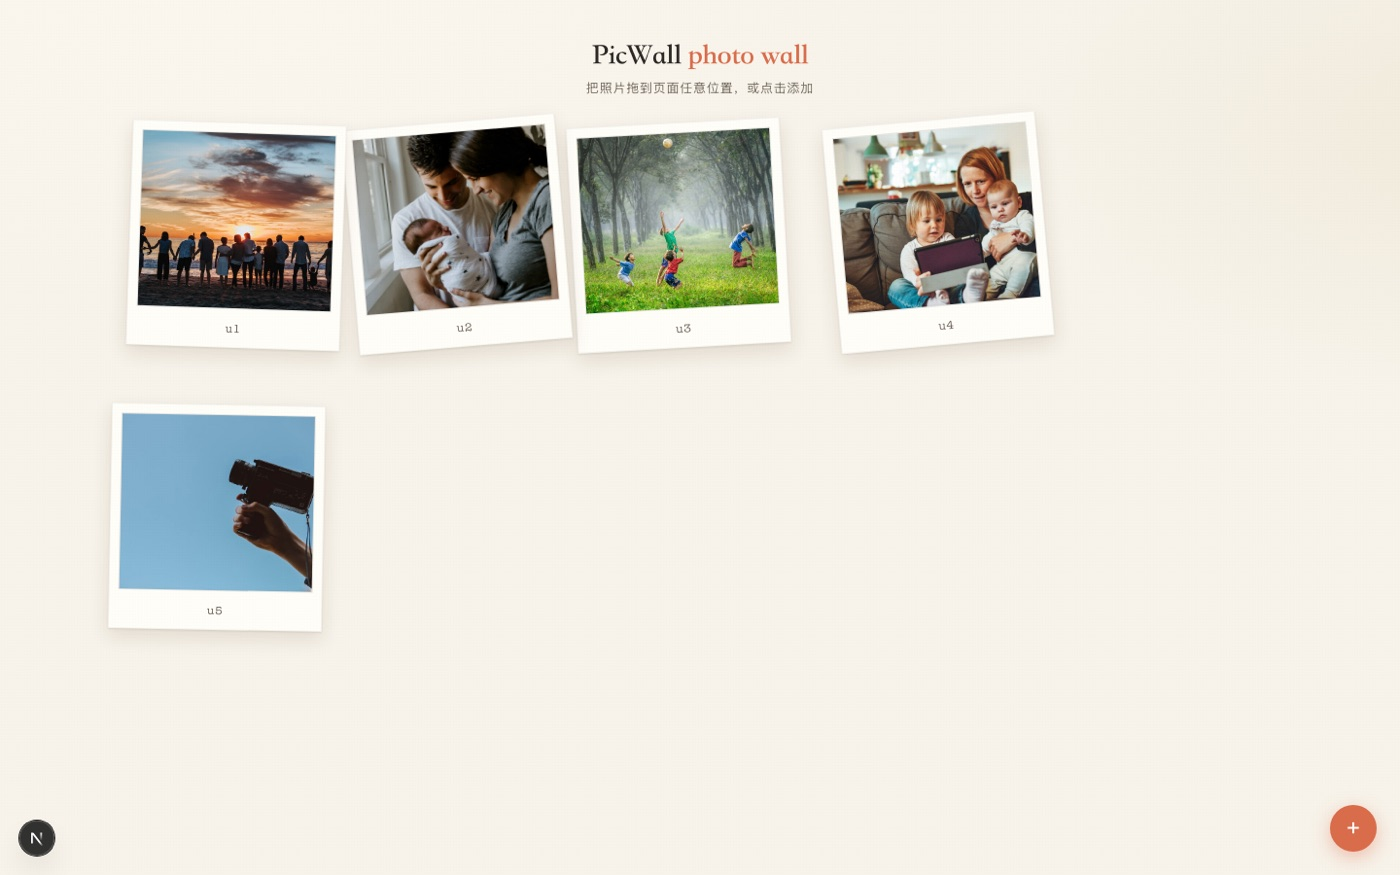
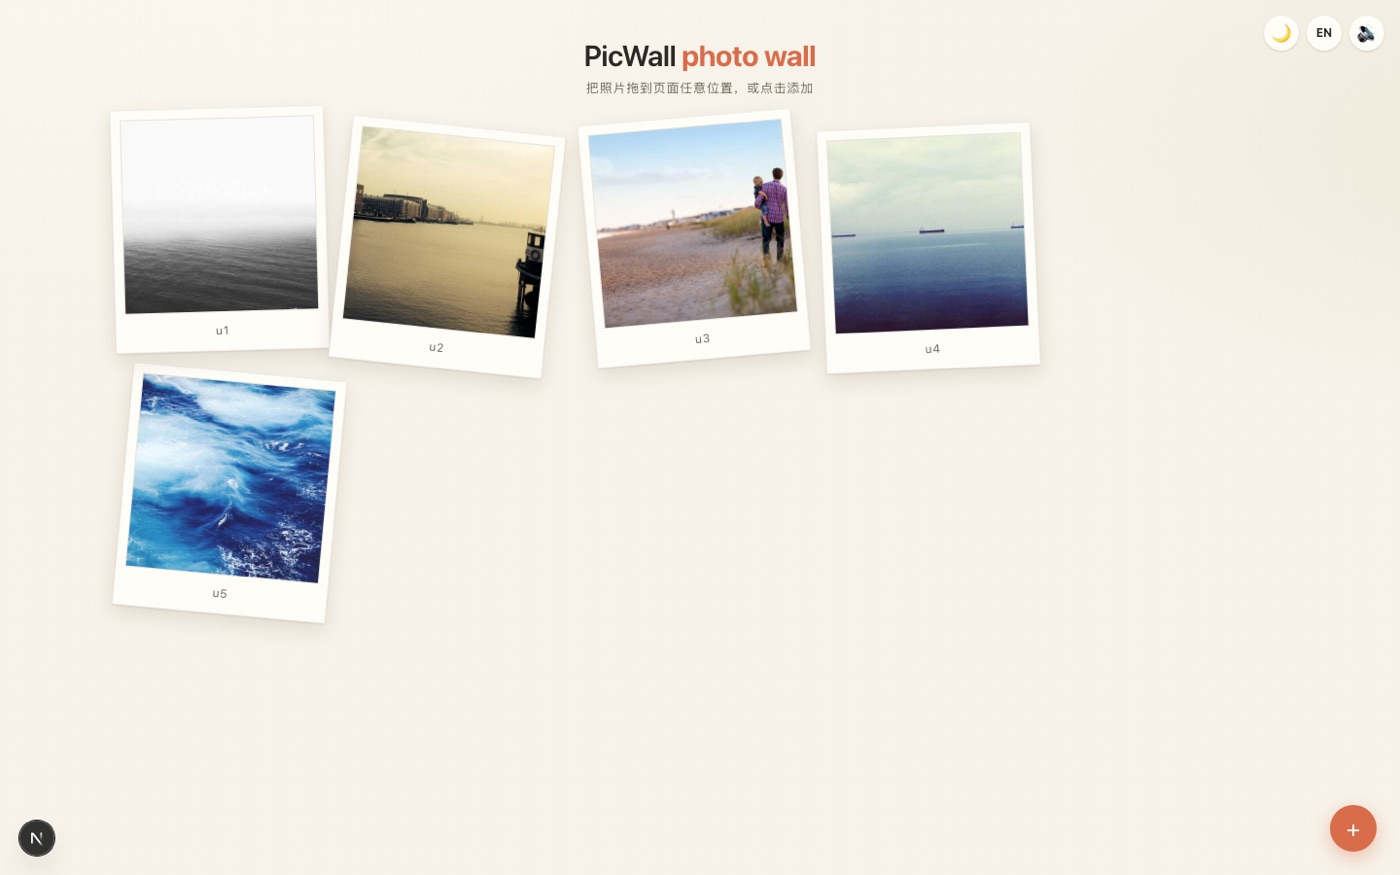
docs(readme): refresh — badges, accurate stack, governance links, fresh showcase (#28)
* chore(deps): bump actions/setup-node from 4.3.0 to 4.4.0

Bumps [actions/setup-node](https://github.com/actions/setup-node) from 4.3.0 to 4.4.0.
- [Release notes](https://github.com/actions/setup-node/releases)
- [Commits](https://github.com/actions/setup-node/compare/v4.3.0...v4.4.0)

---
updated-dependencies:
- dependency-name: actions/setup-node
  dependency-version: 4.4.0
  dependency-type: direct:production
  update-type: version-update:semver-minor
...

* docs(readme): refresh — badges, Next 16/React 19 facts, E2E+coverage in tests, governance links, fresh masonry showcase

---------

Changed region(s): [[0.0614, 0.1234, 0.7679, 0.7406], [0.3993, 0.0309, 0.5836, 0.0926], [0.8907, 0.0309, 0.9829, 0.0617]]

diff --git a/README.md b/README.md
@@ -7,6 +7,15 @@
 </p>
 
 <p align="center">
+  <img src="https://img.shields.io/badge/Next.js-16-000000?logo=nextdotjs&logoColor=white" alt="Next.js 16">
+  <img src="https://img.shields.io/badge/React-19-61DAFB?logo=react&logoColor=black" alt="React 19">
+  <img src="https://img.shields.io/badge/TypeScript-strict-3178C6?logo=typescript&logoColor=white" alt="TypeScript">
+  <img src="https://img.shields.io/badge/coverage-100%25-brightgreen" alt="Coverage 100%">
+  <img src="https://github.com/gandli/picwall/actions/workflows/ci.yml/badge.svg" alt="CI">
+  <img src="https://img.shields.io/badge/license-MIT-blue" alt="MIT">
+</p>
+
+<p align="center">
   <code>零数据库</code> · <code>零外部依赖</code> · <code>单命令启动</code>
 </p>
 
@@ -15,7 +24,7 @@
 ## 截图
 
 <p align="center">
-  <img src="./assets/readme/showcase.jpg" width="80%" alt="PicWall 照片墙：5 张带中文标题的拍立得卡片散落布局">
+  <img src="./assets/readme/showcase.jpg" width="80%" alt="PicWall 照片墙：5 张拍立得卡片 masonry 错落布局">
 </p>
 
 ## 这是什么
@@ -30,6 +39,8 @@
 | **隐私第一** | 照片只存本地 `uploads/`，GET 接口不暴露原始文件名 |
 | **拍立得质感** | 纸纹噪点 + 随机旋转 + 分层 z-index + hover 放大 |
 | **键盘可达** | Tab 聚焦 → Enter 打开大图，Esc 关闭 |
+| **动作音效** | 每个操作匹配独立 cuelume 音效（打开/关闭/删除/上传） |
+| **自适应布局** | masonry 排布，卡片高度随照片比例，无留白 |
 
 ## 快速开始
 
@@ -38,7 +49,7 @@ npm install
 npm run dev
 ```
 
-打开 http://localhost:3000 ，把照片拖进页面，或点右下角 `+`。
+打开 <http://localhost:3000> ，把照片拖进页面，或点右下角 `+`。
 
 生产模式：`npm run build && npm start`（Node ≥ 18.18，见 `.nvmrc`）。
 
@@ -60,15 +71,22 @@ PICWALL_DATA_DIR=/data/photos PICWALL_MANIFEST=/data/manifest.json npm run dev
 | 方法 | 路径 | 说明 |
 |---|---|---|
 | `GET` | `/api/images` | 照片列表（剔除原始文件名，保护隐私） |
-| `POST` | `/api/images` | 上传（multipart 字段 `files`，≤20MB/张，白名单 jpg/png/gif/webp/bmp） |
+| `POST` | `/api/images` | 上传（multipart 字段 `files`，≤20MB/张，白名单 jpg/png/gif/webp/bmp，魔数嗅探防伪造） |
 | `DELETE` | `/api/images/:id` | 删除照片与元数据 |
 
 ## 测试
 
 ```bash
-npm test   # vitest，覆盖 store 增删查 + 并发写 + 损坏 JSON
+npm test          # vitest：40 单测，覆盖率 100%（四指标门禁）
+npx playwright test  # E2E：5 条全流程（加载/上传/lightbox/键盘/删除）
 ```
+
+CI 自动跑全部：typecheck → 单测+覆盖率 → build → E2E。
 
 ## 技术栈
 
-Next.js 15 (App Router) · React 19 · TypeScript · vitest
+Next.js 16 (App Router) · React 19 · TypeScript strict · vitest · Playwright
+
+## 治理
+
+[CHANGELOG](CHANGELOG.md) · [CONTRIBUTING](CONTRIBUTING.md) · [SECURITY](SECURITY.md) · [License](LICENSE) · [Dependabot](.github/dependabot.yml)
